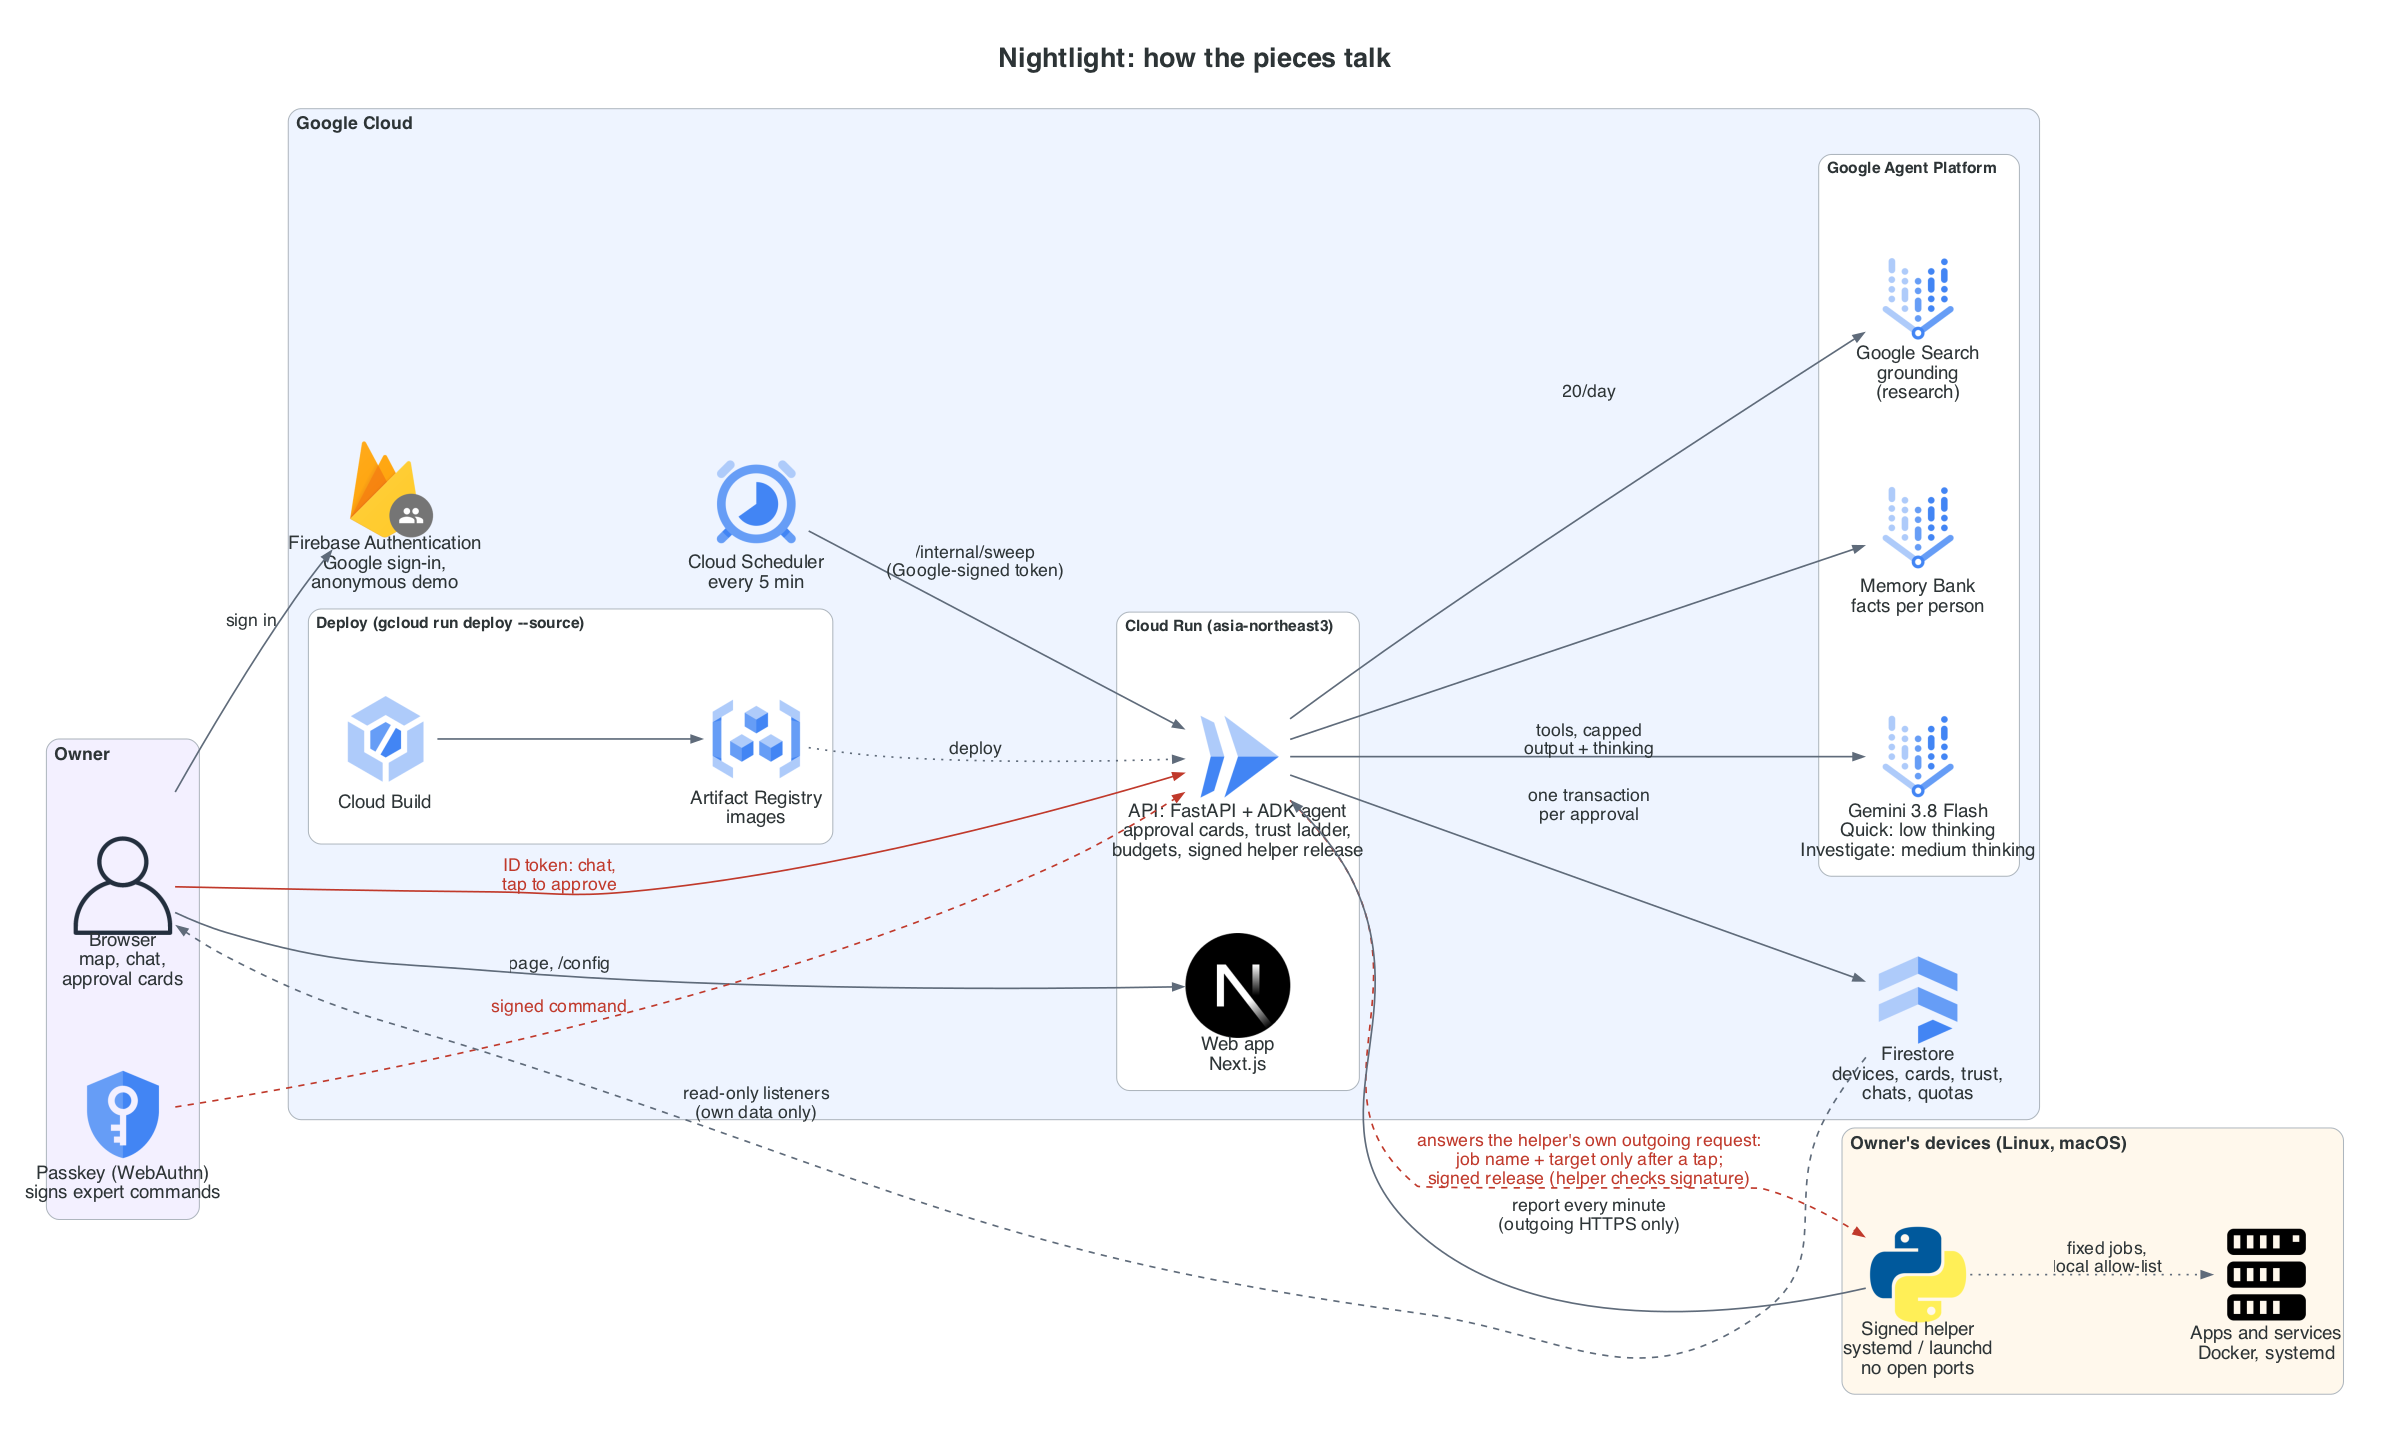
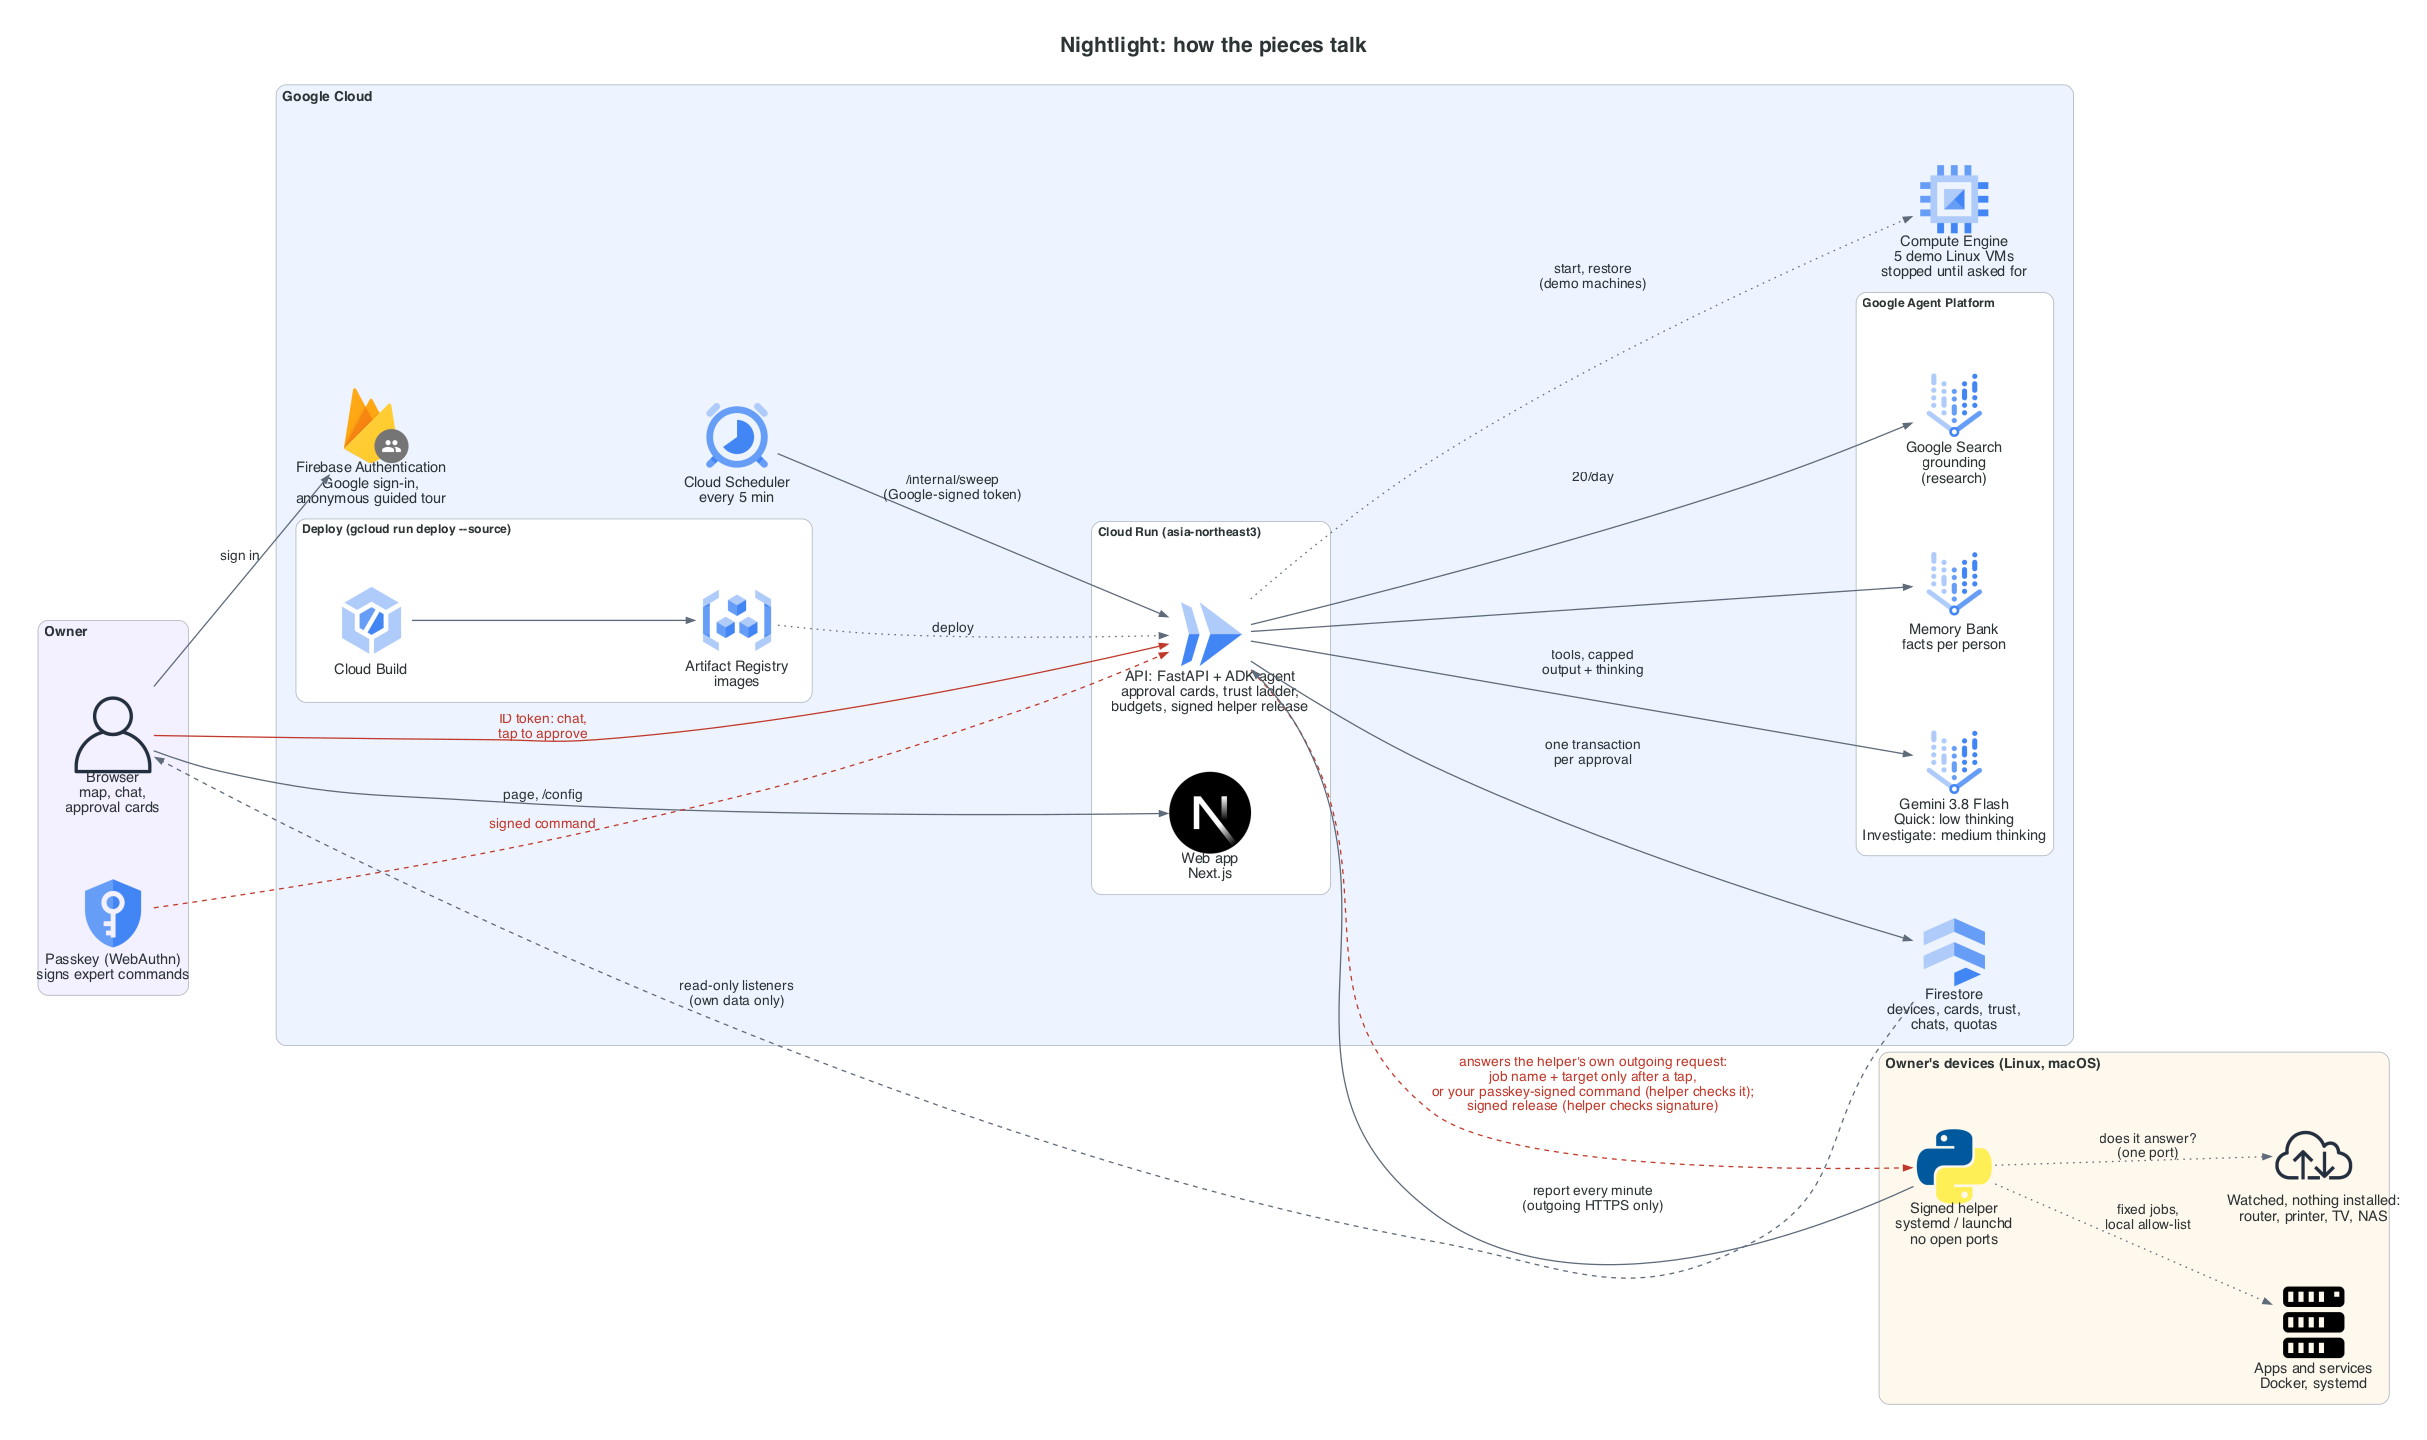
Architecture diagram: passkey-signed commands reach the helper, watched devices, demo VMs on Compute Engine, guided tour

diff --git a/docs/architecture/architecture.py b/docs/architecture/architecture.py
@@ -11,13 +11,14 @@ from pathlib import Path
 
 from diagrams import Cluster, Diagram, Edge
 from diagrams.firebase.develop import Authentication
-from diagrams.gcp.compute import Run
+from diagrams.gcp.compute import ComputeEngine, Run
 from diagrams.gcp.database import Firestore
 from diagrams.gcp.devtools import Build, ContainerRegistry, Scheduler
 from diagrams.gcp.ml import VertexAI
 from diagrams.gcp.security import KeyManagementService
 from diagrams.onprem.client import User
 from diagrams.onprem.compute import Server
+from diagrams.onprem.network import Internet
 from diagrams.programming.framework import Nextjs
 from diagrams.programming.language import Python
 
@@ -43,7 +44,7 @@ with Diagram("", filename=str(OUT), outformat="png", show=False, direction="LR",
         passkey = KeyManagementService("Passkey (WebAuthn)\nsigns expert commands")
 
     with Cluster("Google Cloud", graph_attr={**CLUSTER, "bgcolor": "#eef4ff"}):
-        auth = Authentication("Firebase Authentication\nGoogle sign-in,\nanonymous demo")
+        auth = Authentication("Firebase Authentication\nGoogle sign-in,\nanonymous guided tour")
         with Cluster("Cloud Run (asia-northeast3)", graph_attr=INNER):
             web = Nextjs("Web app\nNext.js")
             api = Run("API: FastAPI + ADK agent\napproval cards, trust ladder,\nbudgets, signed helper release")
@@ -56,10 +57,12 @@ with Diagram("", filename=str(OUT), outformat="png", show=False, direction="LR",
         with Cluster("Deploy (gcloud run deploy --source)", graph_attr=INNER):
             build = Build("Cloud Build")
             registry = ContainerRegistry("Artifact Registry\nimages")
+        pool = ComputeEngine("Compute Engine\n5 demo Linux VMs\nstopped until asked for")
 
     with Cluster("Owner's devices (Linux, macOS)", graph_attr={**CLUSTER, "bgcolor": "#fff8ec"}):
         helper = Python("Signed helper\nsystemd / launchd\nno open ports")
         apps = Server("Apps and services\nDocker, systemd")
+        watched = Internet("Watched, nothing installed:\nrouter, printer, TV, NAS")
 
     owner >> E(label="page, /config") >> web
     owner >> E(label="sign in") >> auth
@@ -75,6 +78,8 @@ with Diagram("", filename=str(OUT), outformat="png", show=False, direction="LR",
     build >> registry >> E(label="deploy", style="dotted") >> api
 
     helper >> E(label="report every minute\n(outgoing HTTPS only)", constraint="false") >> api
-    api >> E(label="answers the helper's own outgoing request:\njob name + target only after a tap;\nsigned release (helper checks signature)",
+    api >> E(label="answers the helper's own outgoing request:\njob name + target only after a tap,\nor your passkey-signed command (helper checks it);\nsigned release (helper checks signature)",
                 color=CONTROL, fontcolor=CONTROL, style="dashed") >> helper
     helper >> E(label="fixed jobs,\nlocal allow-list", style="dotted") >> apps
+    helper >> E(label="does it answer?\n(one port)", style="dotted") >> watched
+    api >> E(label="start, restore\n(demo machines)", style="dotted") >> pool
